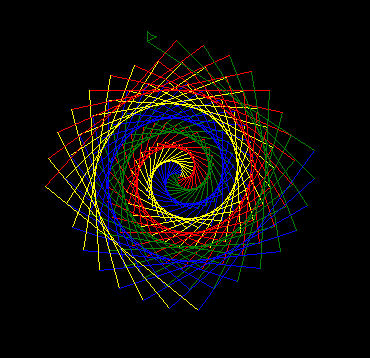
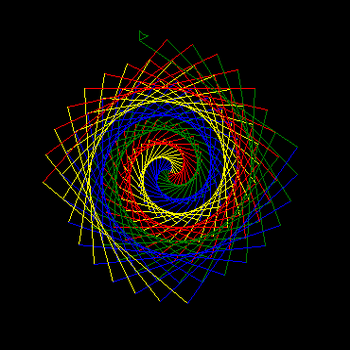
2019.05.12.23:28 molychin

diff --git a/teach-your-kids-to-code-master/ch02/ColorSquareSpiral2.py b/teach-your-kids-to-code-master/ch02/ColorSquareSpiral2.py
@@ -5,7 +5,7 @@ colors=['red', 'yellow', 'blue', 'green']
 for x in range(200):
     t.pencolor(colors[x%4])
     t.forward(x)
-    t.left(87)    #87/91/93/97
+    t.left(147)    #87/91/93/97   /46/61/121/147
 
 
 

diff --git a/Teach_Your_kids_to_Code002.md b/Teach_Your_kids_to_Code002.md
@@ -52,13 +52,17 @@ for x in range(200):
 ![](res/2019-5-12-22-59-00.png)
 
 This is also a nice visual to help you understand how being off by just one number can drastically change the result of your program.  
-这也是一个很好的视觉帮助你理解一个数字的微小改变是如何大幅度影响你程序的结果。
+这也是一个很好的利用视觉图像来帮助你理解因一个数字的微小改变而如何大幅度影响你程序结果的例子。
 
-|left(87)|left(91)|
+|left(46)|left(61)|
 |:---:|:---:|
+|![](res/2019-5-12-23-47-08.png)|![](res/2019-5-12-23-48-36.png)|
+|left(87)|left(91)|
 |![](res/2019-5-12-23-23-06.png)|![](res/2019-5-12-22-59-00.png)|
 |left(93)|left(97)|
 |![](res/2019-5-12-23-16-57.png)|![](res/2019-5-12-23-19-59.png)|
+|left(121)|left(147)|
+|![](res/2019-5-12-23-50-36.png)|![](res/2019-5-12-23-58-37.png)|
 
 >大胆的猜想：我们真的很难预料这些简单的代码最终会绘制出如此美丽、协调的图形。更进一步，我们可以对比自然界中有不少类似的生物形态出现。很容易推测，这些神奇的自然形态是否也是由这些简单的生成规则来支配的。
 
